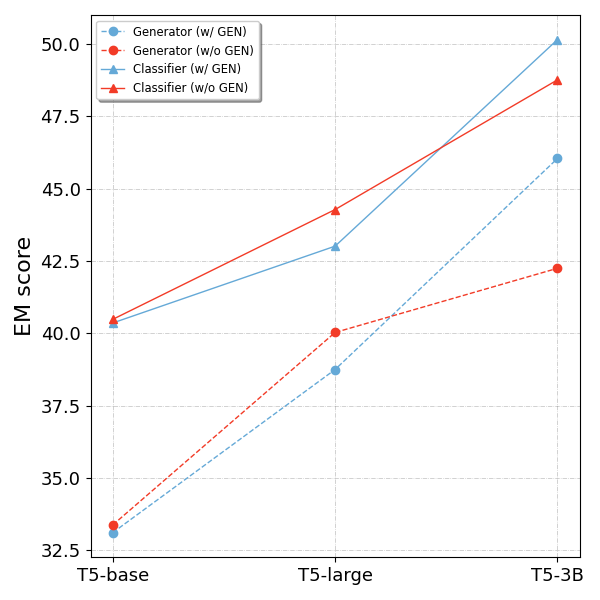
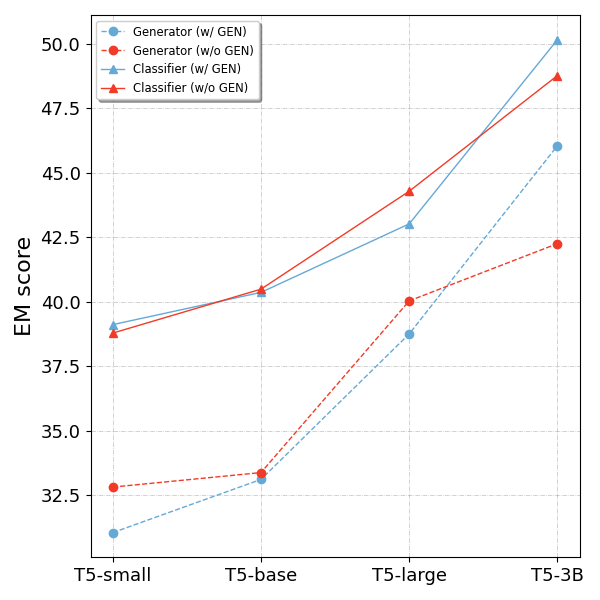
add t5-small results

diff --git a/Super_NI/plot_results.py b/Super_NI/plot_results.py
@@ -12,16 +12,16 @@ def plot(save_path: str="./figures", file_name: str="performances", linewidth: f
     # set the font of the scale 
     plt.tick_params(labelsize=13)
     
-    x_index = ["T5-base", "T5-large", "T5-3B"]
+    x_index = ["T5-small", "T5-base", "T5-large", "T5-3B"]
     # for generator
-    mix_results = [33.1094, 38.75, 46.0469]
-    no_mix_results = [33.375, 40.0312, 42.25]
+    mix_results = [31.0469, 33.1094, 38.75, 46.0469]
+    no_mix_results = [32.8125, 33.375, 40.0312, 42.25]
     plt.plot(x_index, mix_results, color=COLORS[0], linestyle=LINE_STYLES[1], marker=MARKERS[1], label="Generator (w/ GEN)", linewidth=linewidth)
     plt.plot(x_index, no_mix_results, color=COLORS[2], linestyle=LINE_STYLES[1], marker=MARKERS[1], label="Generator (w/o GEN)", linewidth=linewidth)
     
     # for classifier
-    mix_results = [40.3594, 43.0156, 50.1562]
-    no_mix_results = [40.4844, 44.2812, 48.7656]
+    mix_results = [39.1094, 40.3594, 43.0156, 50.1562]
+    no_mix_results = [38.7812, 40.4844, 44.2812, 48.7656]
     plt.plot(x_index, mix_results, color=COLORS[0], linestyle=LINE_STYLES[0], marker=MARKERS[4], label="Classifier (w/ GEN)", linewidth=linewidth)
     plt.plot(x_index, no_mix_results, color=COLORS[2], linestyle=LINE_STYLES[0], marker=MARKERS[4], label="Classifier (w/o GEN)", linewidth=linewidth)
     

diff --git a/Super_NI/README.md b/Super_NI/README.md
@@ -78,6 +78,13 @@ Evaluation metric: Exact Match (EM) score, which is equivalent to accuracy (we u
 <td style="text-align: center; height: 18px; width: 102.375px;"><strong>w/ GEN</strong></td>
 </tr>
 <tr style="height: 18px;">
+<td style="height: 18px; width: 125.391px;"><strong>T5-small</strong></td>
+<td style="text-align: center; height: 18px; width: 140.453px;">32.81</td>
+<td style="text-align: center; height: 18px; width: 122.398px;">31.05</td>
+<td style="text-align: center; height: 18px; width: 117.383px;">38.78</td>
+<td style="text-align: center; height: 18px; width: 102.375px;">39.11</td>
+</tr>
+<tr style="height: 18px;">
 <td style="height: 18px; width: 125.391px;"><strong>T5-base</strong></td>
 <td style="text-align: center; height: 18px; width: 140.453px;">33.38</td>
 <td style="text-align: center; height: 18px; width: 122.398px;">33.11</td>
